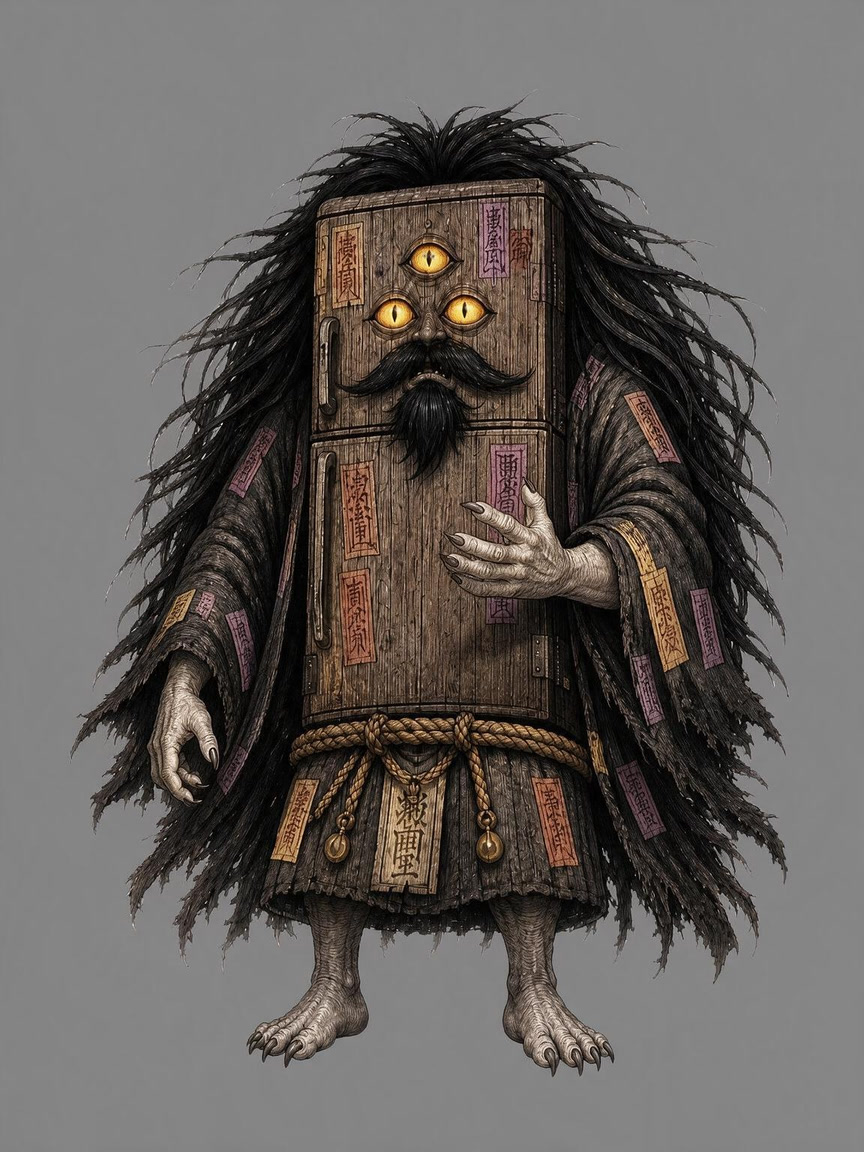
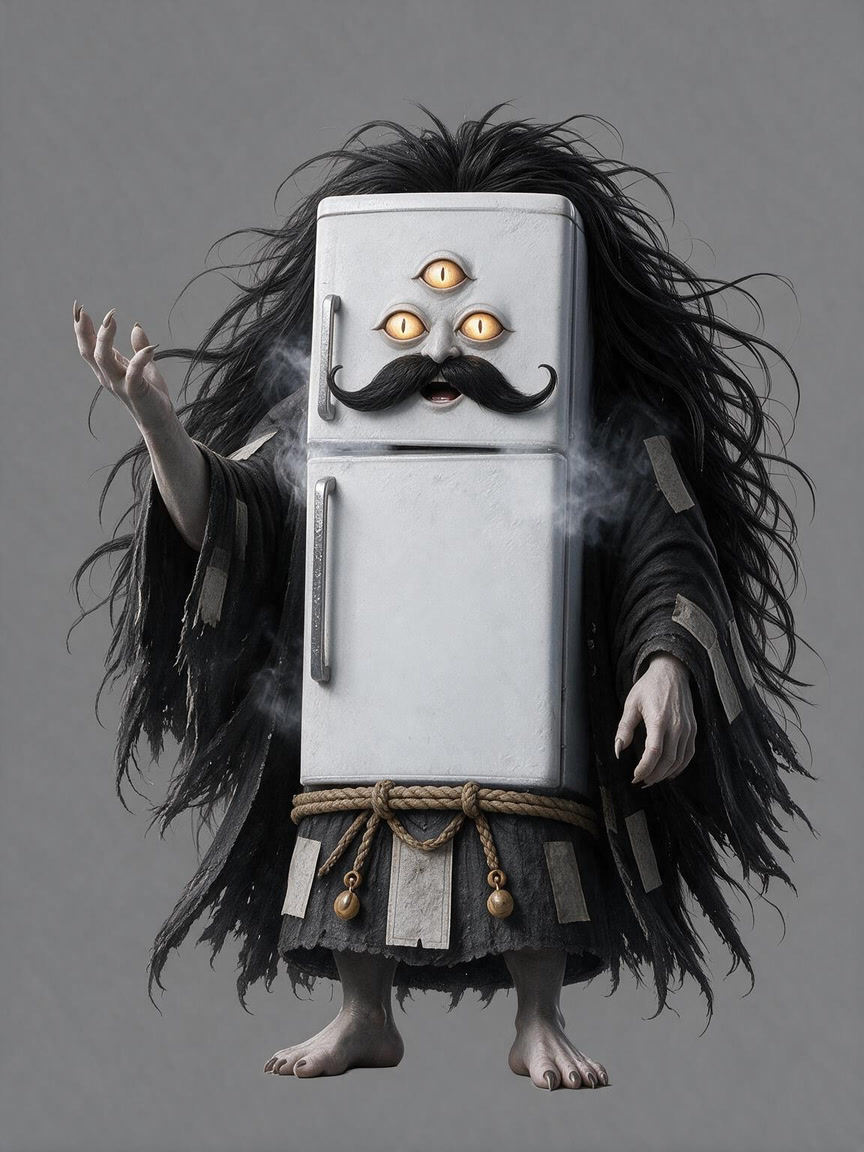
UI art: new pictures [skip ci]

diff --git a/apps/web/public/onboarding/s/last-run.md b/apps/web/public/onboarding/s/last-run.md
@@ -1,8 +1,10 @@
-# UI art — 2026-10-26T21:50:41.801Z
+# UI art — 2026-10-26T21:53:46.420Z
 
-Seedream 5.0 Pro / 4枚 / 約8円
+Seedream 5.0 Pro / 6枚 / 約14円
 
-- ✅ ref-freezy
-- ✅ ref-kaiser-1
-- ✅ ref-kaiser-2
-- ✅ ref-kaiser-3
+- ✅ freezy-x-joy
+- ✅ freezy-x-shock
+- ✅ freezy-x-talk
+- ✅ kaiser1-x-joy
+- ✅ kaiser1-x-shock
+- ✅ kaiser1-x-talk

diff --git a/apps/web/public/atelier/raw/last-run.md b/apps/web/public/atelier/raw/last-run.md
@@ -1,4 +1,4 @@
-# UI art — 2026-10-26T21:50:41.842Z
+# UI art — 2026-10-26T21:53:46.449Z
 
 Seedream 5.0 Pro / 0枚 / 約0円
 

diff --git a/apps/web/public/dj/art/last-run.md b/apps/web/public/dj/art/last-run.md
@@ -1,4 +1,4 @@
-# UI art — 2026-10-26T21:49:57.305Z
+# UI art — 2026-10-26T21:52:42.236Z
 
 Seedream 5.0 Pro / 0枚 / 約0円
 

diff --git a/apps/web/public/ui/parts/raw/last-run.md b/apps/web/public/ui/parts/raw/last-run.md
@@ -1,4 +1,4 @@
-# UI art — 2026-10-26T21:50:41.879Z
+# UI art — 2026-10-26T21:53:46.475Z
 
 Seedream 5.0 Pro / 0枚 / 約0円
 
